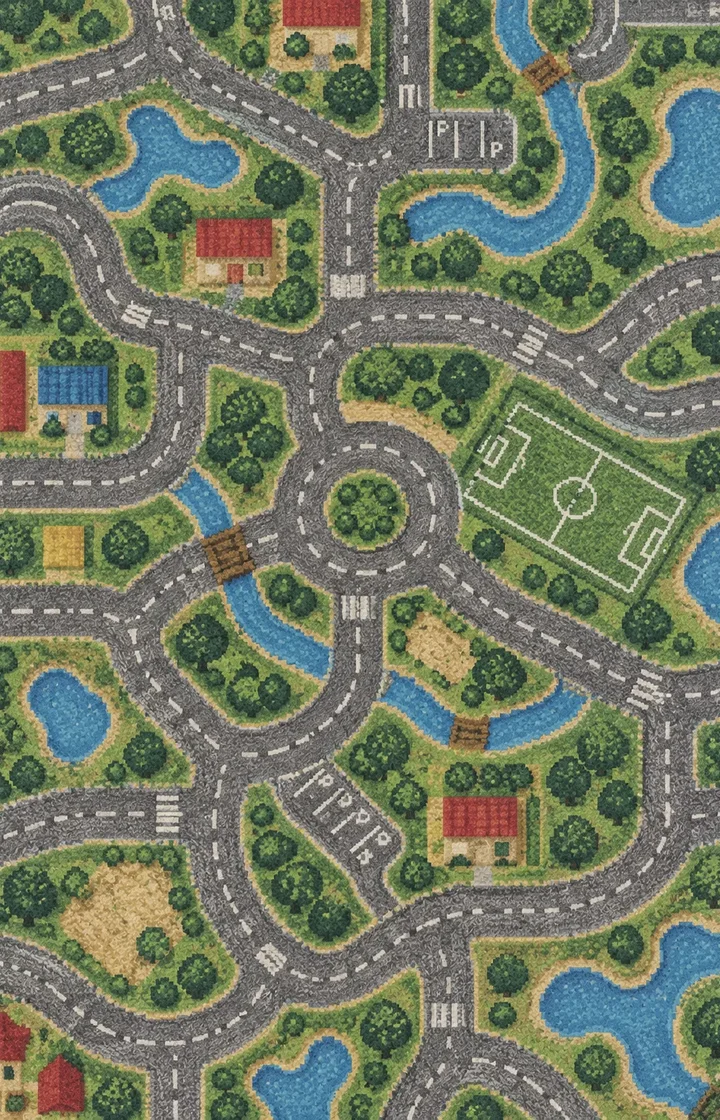
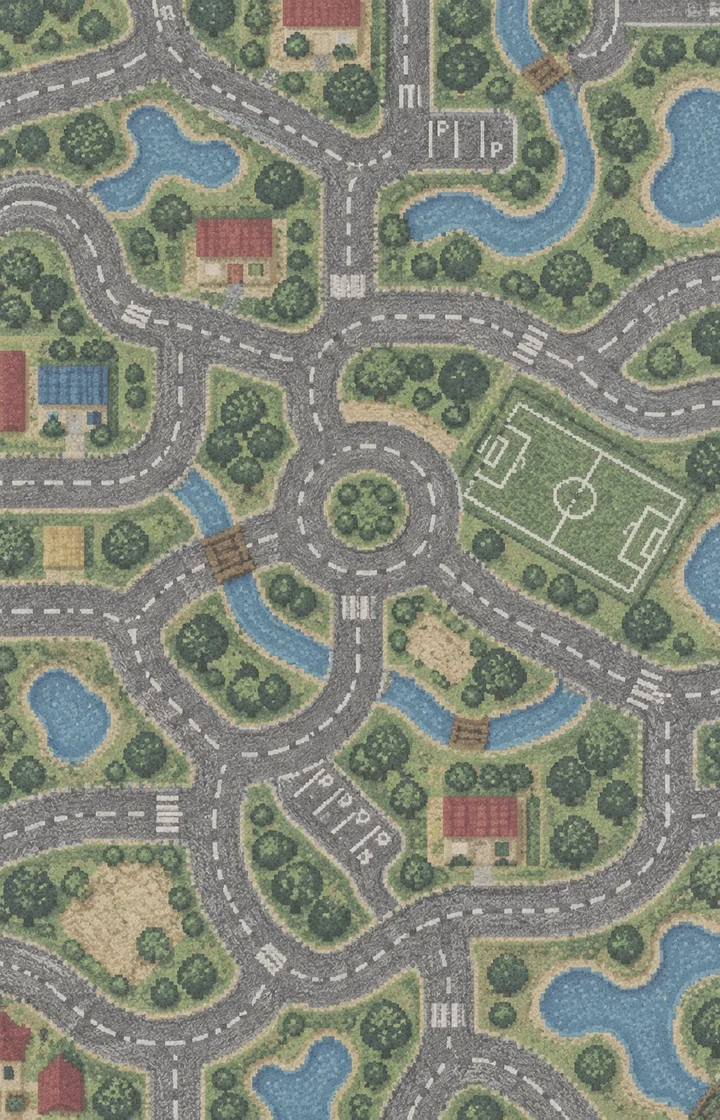
Stronger 'Medium' filter for the busy Total War playmat (Playroom Siege)
Claude-Session: https://claude.ai/code/session_01KMW7bGmfwe6c2A4HCXBX2f

diff --git a/tools/import_backgrounds.py b/tools/import_backgrounds.py
@@ -30,6 +30,9 @@ QUALITY = 85
 SATURATION = 0.7
 CONTRAST = 0.85
 BRIGHTNESS = 1.04
+# Busy backgrounds can get the stronger "Medium" filter instead: half the
+# color, softer contrast and a pale wash. List them here by file name.
+MEDIUM = {"total_war_level_05"}  # the playroom playmat
 NAME = re.compile(r"^([a-z_]+)_level_(\d\d)$")
 
 
@@ -47,8 +50,13 @@ def fit(image):
     return image.resize((WIDTH, HEIGHT), Image.LANCZOS)
 
 
-def soften(image):
+def soften(image, medium=False):
     """Calms a background down so it doesn't compete with the game."""
+    if medium:
+        image = ImageEnhance.Color(image).enhance(0.5)
+        image = ImageEnhance.Contrast(image).enhance(0.75)
+        image = ImageEnhance.Brightness(image).enhance(1.06)
+        return Image.blend(image, Image.new("RGB", image.size, (236, 232, 228)), 0.12)
     image = ImageEnhance.Color(image).enhance(SATURATION)
     image = ImageEnhance.Contrast(image).enhance(CONTRAST)
     return ImageEnhance.Brightness(image).enhance(BRIGHTNESS)
@@ -94,7 +102,7 @@ def main(folder):
             continue
         out = PROJECT / "art" / "backgrounds" / world / f"level_{number}.webp"
         out.parent.mkdir(parents=True, exist_ok=True)
-        soften(fit(Image.open(path))).save(out, "WEBP", quality=QUALITY)
+        soften(fit(Image.open(path)), path.stem in MEDIUM).save(out, "WEBP", quality=QUALITY)
         write_import_settings(out)
         print(f"{path.name} -> {out.relative_to(PROJECT)} ({out.stat().st_size // 1024} KB)")
         done += 1

diff --git a/CLAUDE.md b/CLAUDE.md
@@ -58,7 +58,7 @@ budgets (14/22/28/32) and a 450 HP Giant Centipede; Microscopic got
 **Art handoff state.** The user is making the 35 level backgrounds in
 ChatGPT from drag-and-drop prompt files in `docs/art/chatgpt/` (one per
 world; filenames like `kitchen_defense_level_03.png`). When they send the
-images: `tools/import_backgrounds.py <folder>` (it also softens them: 30%
+images: `tools/import_backgrounds.py <folder>` (it also softens them, and backgrounds listed in its MEDIUM set get a stronger filter; the Total War playmat is one: 30%
 less color, less contrast, a bit brighter, as the user chose), then import +
 content build, then republish. **Imported so far: Backyard Bugs, Wild Kingdom, Microscopic, Total War, Kitchen Defense, Birthday Bash (all 5 each).**
 Images pasted mid-turn in chat don't get saved as files; ask the user to
